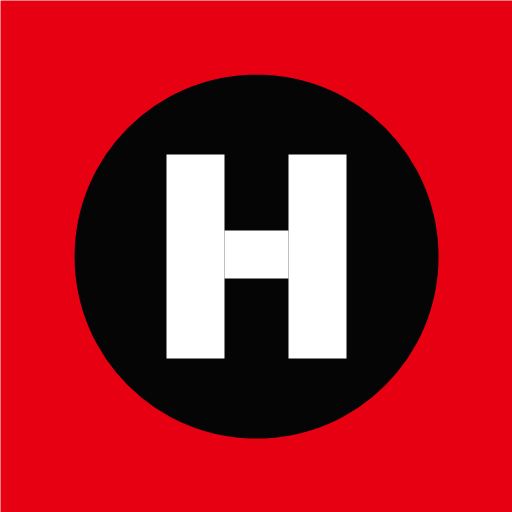
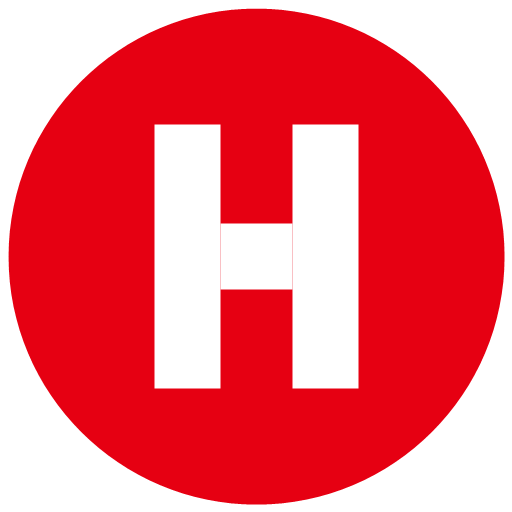
Fix PWA installation detection and branding

diff --git a/src/test/pwa-install.test.tsx b/src/test/pwa-install.test.tsx
@@ -13,7 +13,6 @@ import {
   getDeferredInstallPrompt,
   getInstallInstructions,
   isAppInstalled,
-  markAppInstalled,
   subscribeToInstallPrompt,
   type InstallPromptEvent,
 } from "@/lib/pwa-install";
@@ -26,6 +25,7 @@ type InstallManifest = {
   start_url: string;
   scope: string;
   theme_color: string;
+  short_name: string;
   icons: { src: string; type: string; sizes: string }[];
 };
 
@@ -35,6 +35,7 @@ const canteenManifest = JSON.parse(canteenManifestSource) as InstallManifest;
 describe("separate HUNGRY app install flows", () => {
   beforeEach(() => {
     localStorage.clear();
+    window.history.replaceState({}, "", "/");
   });
 
   afterEach(() => {
@@ -46,28 +47,44 @@ describe("separate HUNGRY app install flows", () => {
 
   it("keeps distinct app identities, launch pages, icons, and theme colours in the shared scope", () => {
     expect(studentManifest.id).not.toBe(canteenManifest.id);
-    expect(studentManifest.name).toContain("Student App");
-    expect(canteenManifest.name).toContain("Canteen Owner App");
+    expect(studentManifest.name).toBe("HUNGRY");
+    expect(studentManifest.short_name).toBe("HUNGRY");
+    expect(canteenManifest.name).toBe("HUNGRY CANTEEN DASHBOARD");
+    expect(canteenManifest.short_name).toBe("HUNGRY CANTEEN");
     expect(studentManifest.start_url).toBe("/auth?hungry_app=student");
     expect(canteenManifest.start_url).toBe("/register-canteen?hungry_app=canteen");
     expect(studentManifest.scope).toBe("/");
     expect(canteenManifest.scope).toBe("/");
     expect(studentManifest.theme_color).not.toBe(canteenManifest.theme_color);
-    expect(studentManifest.icons.map((icon) => icon.src)).not.toEqual(
+    expect(studentManifest.icons.map((icon) => icon.src)).toEqual(
       canteenManifest.icons.map((icon) => icon.src),
     );
     expect(studentManifest.icons.some((icon) => icon.sizes === "192x192")).toBe(true);
     expect(canteenManifest.icons.some((icon) => icon.sizes === "512x512")).toBe(true);
   });
 
-  it("persists install status independently for student and canteen apps", () => {
-    expect(isAppInstalled("student")).toBe(false);
-    expect(isAppInstalled("canteen")).toBe(false);
+  it("uses a fresh related-apps result to detect each app independently", async () => {
+    const getInstalledRelatedApps = vi.fn().mockResolvedValue([
+      { platform: "webapp", id: `${window.location.origin}/?hungry_app=student` },
+    ]);
+    Object.defineProperty(navigator, "getInstalledRelatedApps", {
+      configurable: true,
+      value: getInstalledRelatedApps,
+    });
 
-    markAppInstalled("student");
+    await expect(isAppInstalled("student")).resolves.toBe(true);
+    await expect(isAppInstalled("canteen")).resolves.toBe(false);
+    expect(getInstalledRelatedApps).toHaveBeenCalledTimes(2);
+    expect(localStorage.length).toBe(0);
+  });
 
-    expect(isAppInstalled("student")).toBe(true);
-    expect(isAppInstalled("canteen")).toBe(false);
+  it("does not claim an app is installed when the browser cannot report installation state", async () => {
+    Object.defineProperty(navigator, "getInstalledRelatedApps", {
+      configurable: true,
+      value: undefined,
+    });
+    await expect(isAppInstalled("student")).resolves.toBe(false);
+    await expect(isAppInstalled("canteen")).resolves.toBe(false);
   });
 
   it("captures the browser install event before the install page hydrates", () => {
@@ -97,7 +114,13 @@ describe("separate HUNGRY app install flows", () => {
     expect(getInstallInstructions()).toContain(instruction);
   });
 
-  it("alternates the student button copy every four seconds and shows installed state", () => {
+  it("alternates student button copy and refreshes installed state from the browser", async () => {
+    Object.defineProperty(navigator, "getInstalledRelatedApps", {
+      configurable: true,
+      value: vi.fn().mockResolvedValue([
+        { platform: "webapp", id: `${window.location.origin}/?hungry_app=student` },
+      ]),
+    });
     let tick: (() => void) | undefined;
     vi.spyOn(window, "setInterval").mockImplementation((handler, delay) => {
       expect(delay).toBe(4000);
@@ -111,7 +134,10 @@ describe("separate HUNGRY app install flows", () => {
     act(() => tick?.());
     expect(screen.getByText("For Students, Faculty & Guests")).toBeInTheDocument();
 
-    act(() => markAppInstalled("student"));
+    await act(async () => {
+      await Promise.resolve();
+      await Promise.resolve();
+    });
     expect(screen.getByText("Already Installed")).toBeInTheDocument();
   });
 

diff --git a/src/routes/install.$app.tsx b/src/routes/install.$app.tsx
@@ -6,7 +6,6 @@ import {
   getDeferredInstallPrompt,
   getInstallInstructions,
   isAppInstalled,
-  markAppInstalled,
   subscribeToInstallPrompt,
   type InstallPromptEvent,
   type HungryApp,
@@ -47,10 +46,17 @@ function InstallPage() {
   const [installing, setInstalling] = useState(false);
 
   useEffect(() => {
-    const updateInstalled = () => setInstalled(isAppInstalled(app));
+    let active = true;
+    const updateInstalled = () => {
+      void isAppInstalled(app).then((result) => {
+        if (active) setInstalled(result);
+      });
+    };
+    const updateWhenVisible = () => {
+      if (document.visibilityState === "visible") updateInstalled();
+    };
     const confirmInstalled = () => {
       clearDeferredInstallPrompt();
-      markAppInstalled(app);
       setInstalled(true);
       setInstalling(false);
       setMessage("Installation confirmed. You can open the app from your Home Screen or app launcher.");
@@ -62,8 +68,9 @@ function InstallPage() {
     const unsubscribePrompt = subscribeToInstallPrompt(() => {
       setPromptEvent(getDeferredInstallPrompt());
     });
-    window.addEventListener("storage", updateInstalled);
-    window.addEventListener("hungry-install-status-change", updateInstalled);
+    window.addEventListener("pageshow", updateInstalled);
+    window.addEventListener("focus", updateInstalled);
+    document.addEventListener("visibilitychange", updateWhenVisible);
     window.addEventListener("appinstalled", confirmInstalled);
 
     if ("serviceWorker" in navigator) {
@@ -74,8 +81,10 @@ function InstallPage() {
     }
 
     return () => {
-      window.removeEventListener("storage", updateInstalled);
-      window.removeEventListener("hungry-install-status-change", updateInstalled);
+      active = false;
+      window.removeEventListener("pageshow", updateInstalled);
+      window.removeEventListener("focus", updateInstalled);
+      document.removeEventListener("visibilitychange", updateWhenVisible);
       window.removeEventListener("appinstalled", confirmInstalled);
       unsubscribePrompt();
     };
@@ -95,8 +104,10 @@ function InstallPage() {
         setMessage("Installation was cancelled. You can install later from this page or follow the browser instructions below.");
       } else {
         setInstalling(false);
+        const installed = await isAppInstalled(app);
+        setInstalled(installed);
         setMessage(
-          isAppInstalled(app)
+          installed
             ? "Installation confirmed. You can open the app from your Home Screen or app launcher."
             : "The browser accepted the request. Waiting for installation confirmation…",
         );

diff --git a/src/lib/pwa-install.ts b/src/lib/pwa-install.ts
@@ -4,7 +4,16 @@ export type InstallPromptEvent = Event & {
   userChoice: Promise<{ outcome: "accepted" | "dismissed"; platform: string }>;
 };
 
-const installedKey = (app: HungryApp) => `hungry-pwa-installed-${app}`;
+type RelatedApp = { id?: string; url?: string; platform?: string };
+type NavigatorWithInstalledApps = Navigator & {
+  getInstalledRelatedApps?: () => Promise<RelatedApp[]>;
+};
+
+const appIdentity: Record<HungryApp, { id: string; manifest: string }> = {
+  student: { id: "/?hungry_app=student", manifest: "/manifest-student.webmanifest" },
+  canteen: { id: "/?hungry_app=canteen", manifest: "/manifest-canteen.webmanifest" },
+};
+
 let deferredInstallPrompt: InstallPromptEvent | null = null;
 const installPromptSubscribers = new Set<() => void>();
 
@@ -31,15 +40,32 @@ export function clearDeferredInstallPrompt(prompt?: InstallPromptEvent) {
   installPromptSubscribers.forEach((subscriber) => subscriber());
 }
 
-export function isAppInstalled(app: HungryApp) {
-  if (typeof window === "undefined") return false;
-  return window.localStorage.getItem(installedKey(app)) === "true";
-}
+/**
+ * Returns a fresh browser-reported result. Browsers without the related-apps API
+ * cannot report installs from a normal tab, so those browsers return false and
+ * the UI keeps its download action available.
+ */
+export async function isAppInstalled(app: HungryApp): Promise<boolean> {
+  if (typeof window === "undefined" || typeof navigator === "undefined") return false;
 
-export function markAppInstalled(app: HungryApp) {
-  if (typeof window === "undefined") return;
-  window.localStorage.setItem(installedKey(app), "true");
-  window.dispatchEvent(new Event("hungry-install-status-change"));
+  const currentApp = new URLSearchParams(window.location.search).get("hungry_app");
+  if (isStandaloneApp() && currentApp === app) return true;
+
+  const getInstalledRelatedApps = (navigator as NavigatorWithInstalledApps).getInstalledRelatedApps;
+  if (!getInstalledRelatedApps) return false;
+
+  try {
+    const installedApps = await getInstalledRelatedApps.call(navigator);
+    const identity = appIdentity[app];
+    const manifestUrl = new URL(identity.manifest, window.location.origin).href;
+    const appId = new URL(identity.id, window.location.origin).href;
+    return installedApps.some((installed) => {
+      if (installed.platform !== "webapp") return false;
+      return installed.id === identity.id || installed.id === appId || installed.url === manifestUrl;
+    });
+  } catch {
+    return false;
+  }
 }
 
 export function getInstallInstructions() {

diff --git a/src/components/foodexa/HeroInstallButton.tsx b/src/components/foodexa/HeroInstallButton.tsx
@@ -21,15 +21,26 @@ export function HeroInstallButton({ app }: { app: HungryApp }) {
   const label = copy[app];
 
   useEffect(() => {
-    const updateInstalled = () => setInstalled(isAppInstalled(app));
+    let active = true;
+    const updateInstalled = () => {
+      void isAppInstalled(app).then((result) => {
+        if (active) setInstalled(result);
+      });
+    };
+    const updateWhenVisible = () => {
+      if (document.visibilityState === "visible") updateInstalled();
+    };
     updateInstalled();
-    window.addEventListener("storage", updateInstalled);
-    window.addEventListener("hungry-install-status-change", updateInstalled);
+    window.addEventListener("pageshow", updateInstalled);
+    window.addEventListener("focus", updateInstalled);
+    document.addEventListener("visibilitychange", updateWhenVisible);
     const interval = window.setInterval(() => setShowAudience((current) => !current), 4000);
     return () => {
+      active = false;
       window.clearInterval(interval);
-      window.removeEventListener("storage", updateInstalled);
-      window.removeEventListener("hungry-install-status-change", updateInstalled);
+      window.removeEventListener("pageshow", updateInstalled);
+      window.removeEventListener("focus", updateInstalled);
+      document.removeEventListener("visibilitychange", updateWhenVisible);
     };
   }, [app]);
 

diff --git a/src/routes/__root.tsx b/src/routes/__root.tsx
@@ -14,7 +14,7 @@ import { useEffect, useState, type ReactNode } from "react";
 import appCss from "../styles.css?url";
 import { BackProvider, BackButton } from "../lib/back-nav";
 import { reportLovableError } from "../lib/lovable-error-reporting";
-import { isStandaloneApp, markAppInstalled } from "../lib/pwa-install";
+import { isStandaloneApp } from "../lib/pwa-install";
 
 function NotFoundComponent() {
   return (
@@ -139,7 +139,6 @@ function RootComponent() {
     setStandaloneApp(standalone || hasAppLaunchMarker);
     const app = appFromUrl;
     if (standalone && (app === "student" || app === "canteen")) {
-      markAppInstalled(app);
       const themeColor = app === "student" ? "#e60012" : "#050505";
       document.querySelector('meta[name="theme-color"]')?.setAttribute("content", themeColor);
     }

diff --git a/src/routes/index.tsx b/src/routes/index.tsx
@@ -30,6 +30,7 @@ export const Route = createFileRoute("/")({
       { property: "og:type", content: "website" },
       { name: "twitter:card", content: "summary_large_image" },
     ],
+    links: [{ rel: "manifest", href: "/manifest-student.webmanifest" }],
   }),
   component: Index,
 });
